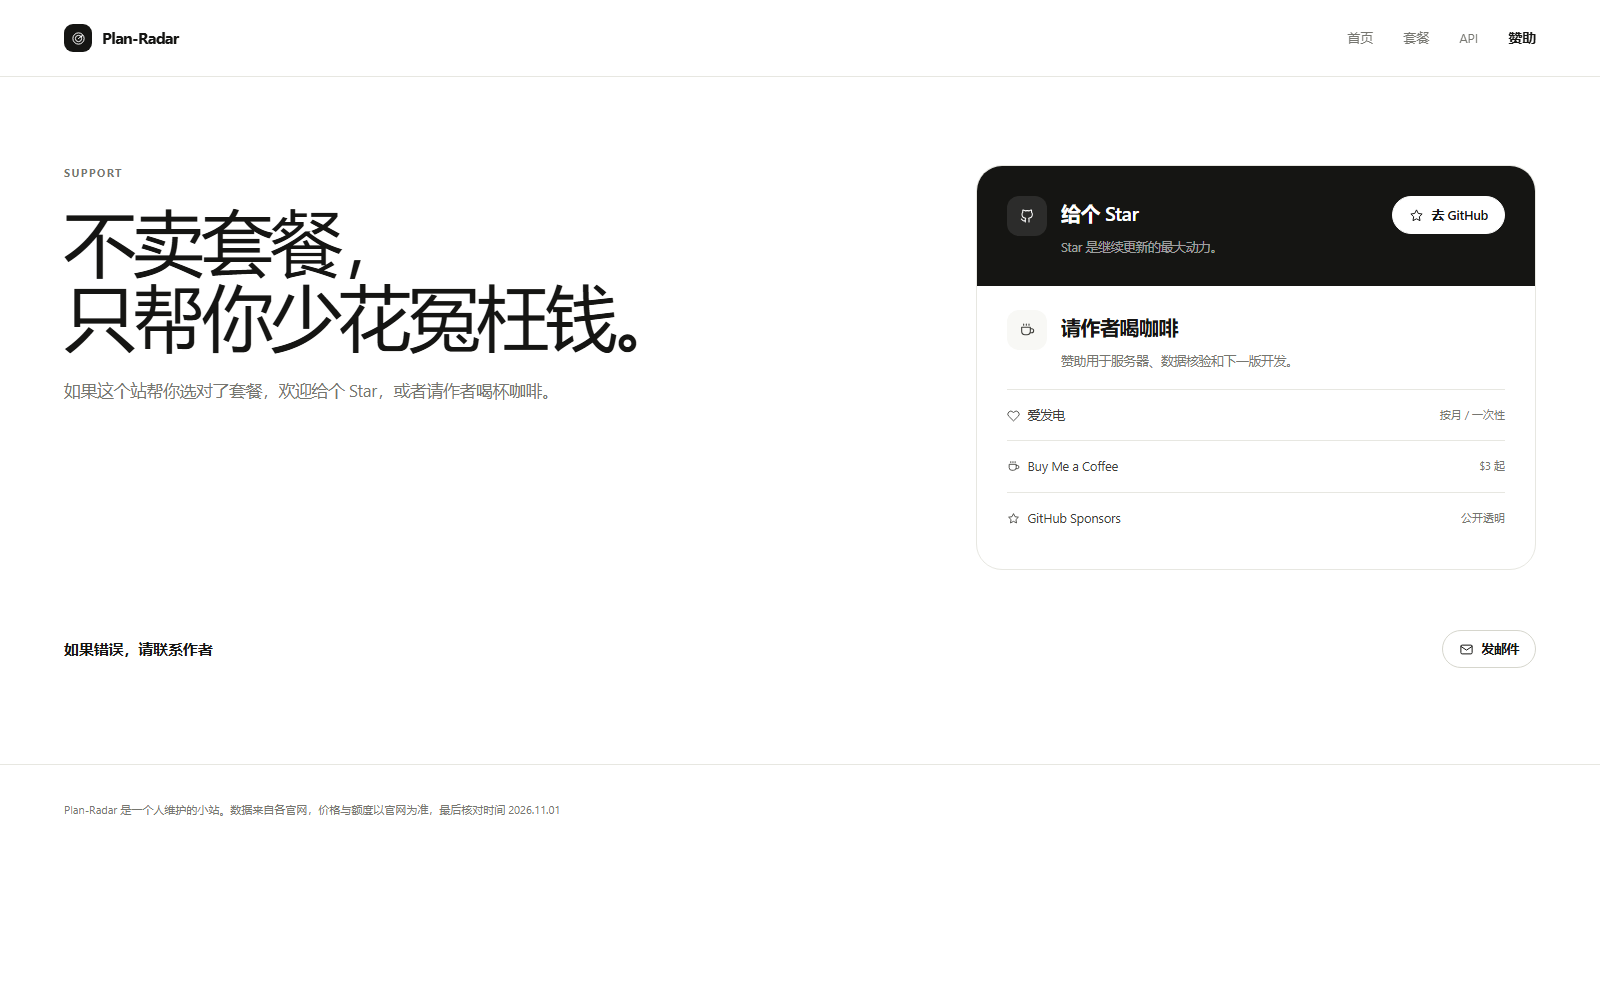
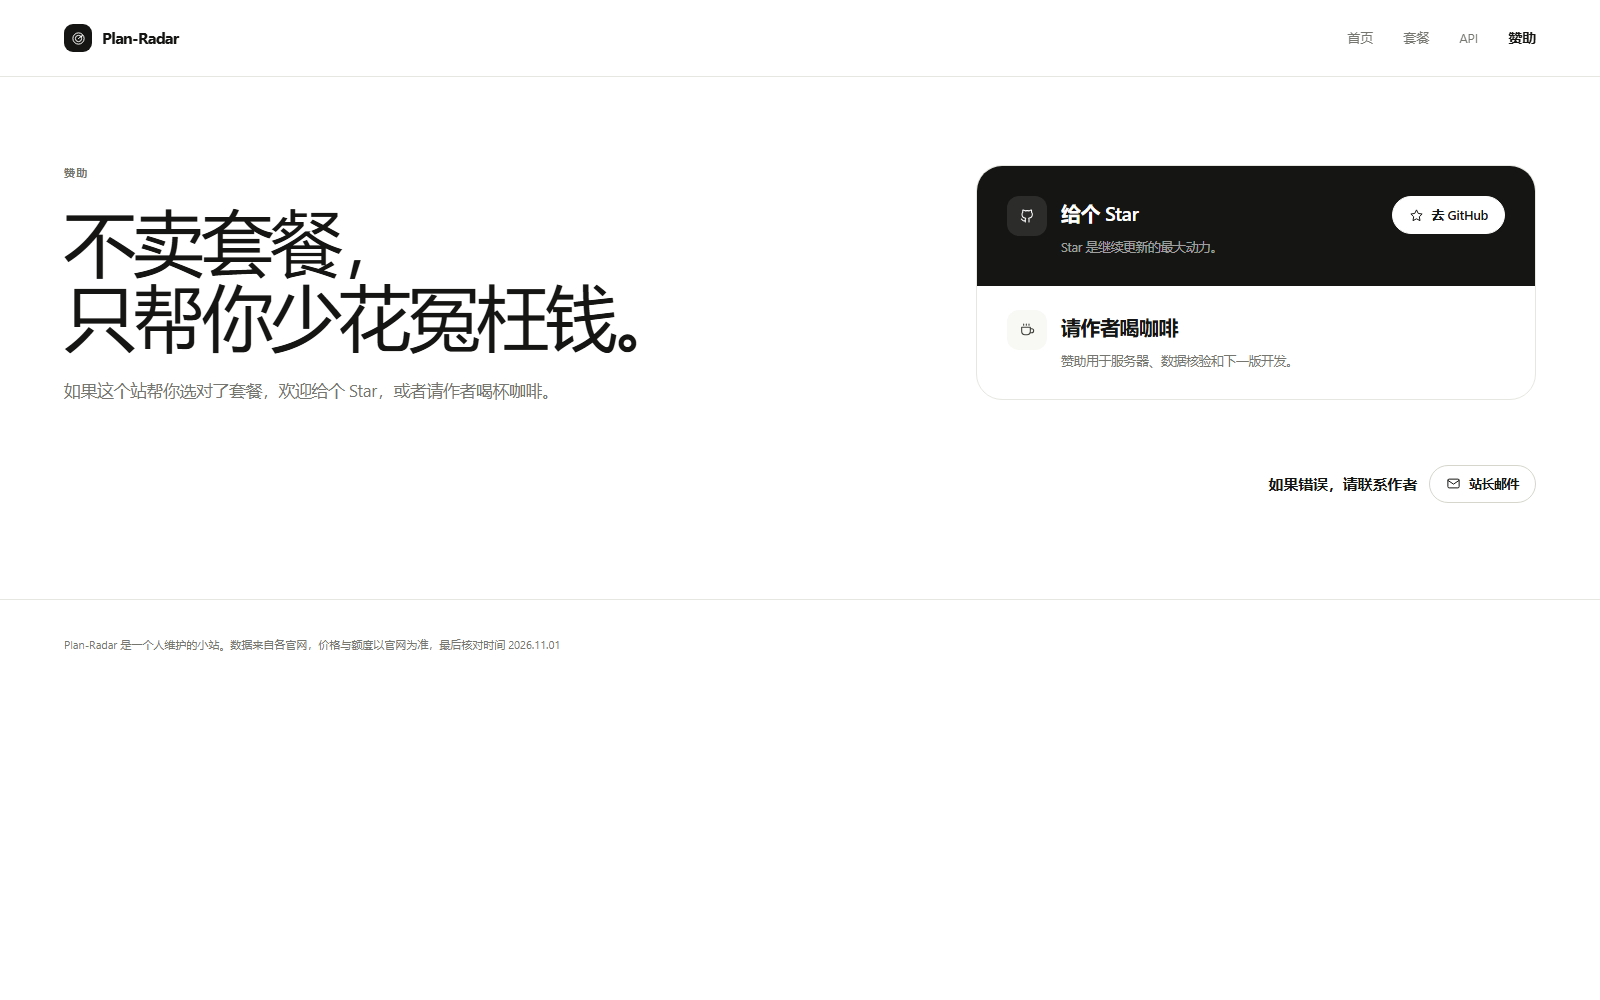
fix: simplify sponsor page

diff --git a/app/globals.css b/app/globals.css
@@ -1190,8 +1190,7 @@ h1, h2, h3, p { margin: 0; }
   background: var(--ink);
   color: #fff;
 }
-.support-panel-bottom { padding: 24px 30px 26px; }
-.support-panel-head { display: flex; align-items: flex-start; gap: 14px; }
+.support-panel-bottom { padding: 24px 30px 26px; }.support-panel-head { display: flex; align-items: flex-start; gap: 14px; }
 .support-panel-head .support-icon { flex-shrink: 0; }
 .support-panel-btn {
   margin-left: auto;
@@ -1224,7 +1223,6 @@ h1, h2, h3, p { margin: 0; }
 .support-panel-actions .btn { background: #fff; border-color: #fff; color: var(--ink); }
 .support-panel-actions .btn:hover { background: #f1f1ec; }
 .support-panel-link { font-size: 10px; color: rgba(255, 255, 255, 0.48); }
-.support-panel-bottom .sponsor-list { margin-top: 16px; }
 
 .support-grid {
   display: grid;
@@ -1261,31 +1259,12 @@ h1, h2, h3, p { margin: 0; }
 .support-card.dark .btn.primary { background: #fff; color: var(--ink); }
 .support-card.dark .btn.primary:hover { background: #f1f1ec; }
 
-.sponsor-list { display: flex; flex-direction: column; gap: 0; margin-top: 22px; }
-.sponsor-item {
-  display: flex;
-  align-items: center;
-  justify-content: space-between;
-  gap: 16px;
-  padding: 15px 0;
-  border-top: 1px solid var(--line);
-  font-size: 13px;
-  color: var(--ink-2);
-}
-.sponsor-item span { font-size: 11px; color: var(--muted); }
-.sponsor-item > span:first-child { font-size: 12.5px; color: var(--ink-2); }
-.sponsor-item .icon {
-  display: inline-block;
-  margin-right: 4px;
-  vertical-align: -2px;
-}
-.sponsor-item:hover { color: var(--accent); }
 
 .correction {
   display: flex;
   align-items: center;
-  justify-content: space-between;
-  gap: 24px;
+  justify-content: flex-end;
+  gap: 12px;
   margin-top: 24px;
   padding: 0;
   border: 0;
@@ -1433,7 +1412,7 @@ h1, h2, h3, p { margin: 0; }
   .step { padding: 22px 0; border-top: 1px solid var(--line); }
   .step + .step { padding-left: 0; border-left: 0; }
   .toolbar { flex-direction: column; align-items: flex-start; }
-  .correction { flex-direction: column; align-items: flex-start; }
+  .correction { flex-direction: column; align-items: flex-end; }
   .api-callout { flex-direction: column; align-items: flex-start; }
   .support-panel-top { padding: 24px 24px 22px; }
   .support-panel-bottom { padding: 20px 24px 22px; }

diff --git a/app/sponsor/page.tsx b/app/sponsor/page.tsx
@@ -6,7 +6,7 @@ export default function SponsorPage() {
       <section className="support-hero">
         <div className="wrap support-hero-grid">
           <div className="support-hero-copy">
-            <div className="eyebrow">Support</div>
+            <div className="eyebrow">赞助</div>
             <h1 className="display" style={{ marginTop: 20 }}>
               不卖套餐，
               <br />
@@ -48,26 +48,6 @@ export default function SponsorPage() {
                   <p>赞助用于服务器、数据核验和下一版开发。</p>
                 </div>
               </div>
-              <div className="sponsor-list">
-                <a className="sponsor-item" href="#">
-                  <span>
-                    <Icon name="heart" className="icon icon-sm" /> 爱发电
-                  </span>
-                  <span>按月 / 一次性</span>
-                </a>
-                <a className="sponsor-item" href="#">
-                  <span>
-                    <Icon name="coffee" className="icon icon-sm" /> Buy Me a Coffee
-                  </span>
-                  <span>$3 起</span>
-                </a>
-                <a className="sponsor-item" href="#">
-                  <span>
-                    <Icon name="star" className="icon icon-sm" /> GitHub Sponsors
-                  </span>
-                  <span>公开透明</span>
-                </a>
-              </div>
             </div>
           </aside>
         </div>
@@ -77,7 +57,7 @@ export default function SponsorPage() {
         <div className="correction">
           <h3>如果错误，请联系作者</h3>
           <a className="btn secondary small" href="mailto:hello@plan-radar.dev">
-            <Icon name="mail" className="icon icon-sm" /> 发邮件
+            <Icon name="mail" className="icon icon-sm" /> 站长邮件
           </a>
         </div>
       </div>
